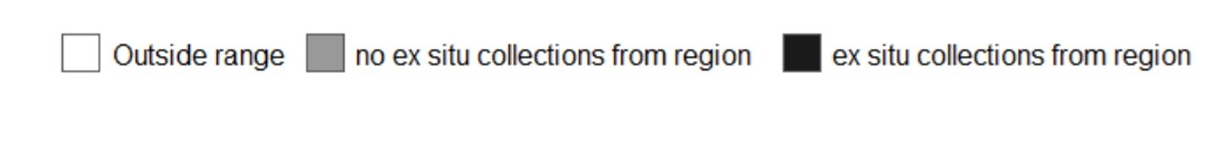
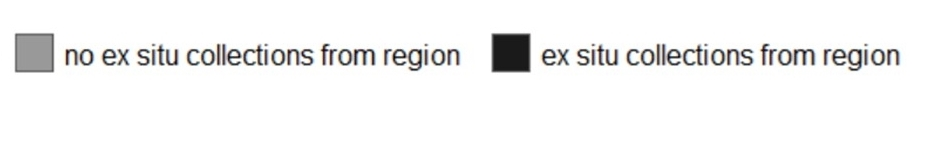
updates to markdown including adding blueberry photo

Changed region(s): [[0.0, 0.2078, 0.9893, 0.4935]]

diff --git a/www/about.md b/www/about.md
@@ -1,22 +1,23 @@
 ### What are CWR and WUS?
-To ensure food security, crop production must adapt to global pressures of change, including a growing global population, pests and diseases, and intensifying frequency and magnitude of extreme weather.
+To ensure food security, crop production must adapt to global pressures of change including a growing global population, pests and diseases, and intensifying frequency and magnitude of extreme weather.
 
-Plants that are close relatives of crops (crop wild relatives or [CWR](https://www.cwrdiversity.org/about/what-are-crop-wild-relatives/)) have the potential to adapt crop production to these challenges. From prehistoric to modern times, plant breeders have used CWR to adapt crop varieties through the introduction of traits linked to crop productivity and nutrition as well as resistance to environmental stress. CWR have been used to introduce such traits to crops of major global importance including tomato, corn, wheat and sunflower. CWR also offer a source of rootstock for woody perennial plants; grafting of wine-grape to rootstock from North American CWR is credited with rescuing the global wine industry [from catostrophic spread of pests ](https://discoverandshare.org/2021/08/31/grafting-the-grape-american-grapevine-rootstock-in-missouri-and-the-world/) 
+Plants that are close relatives of crops (crop wild relatives or [CWR](https://www.cwrdiversity.org/about/what-are-crop-wild-relatives/)) have the potential to adapt crop production to these challenges. [From prehistoric to modern times](https://www.fs.fed.us/wildflowers/ethnobotany/wildrelatives.shtml), plant breeders have used CWR to adapt crop varieties through the introduction of traits linked to crop productivity and nutrition as well as resistance to environmental stress. CWR have been used to introduce such traits to crops of major global importance including tomato, corn, wheat and sunflower. CWR also offer a critical source of rootstock for woody perennial plants. Grafting of wine-grape to rootstock from North American grape CWR is credited with rescuing the global wine industry [from catostrophic spread of pests in the late 1800s](https://discoverandshare.org/2021/08/31/grafting-the-grape-american-grapevine-rootstock-in-missouri-and-the-world/) and today over 80% of vineyards grow grafted grapes.
 
-Wild-utilized plant species (WUS) are plants that are harvested and utilized or consumed directly by humans. WUS often provide critical food security, income sources and may have cultural value, especially in Indigenous food systems and/or in rural communities. Many WUS are especially important as sources of medicine. CWR and WUS definitions are not mutually exclusive; many CWR are wild-harvested and used directly, including many berry fruits native to Canada
+Wild-utilized plant species (WUS) are plants that are harvested and utilized or consumed directly by humans. WUS often provide critical food security, income sources and may have cultural value, especially in [Indigenous food systems](https://www.taylorfrancis.com/books/mono/10.4324/9781003054689/traditional-plant-foods-canadian-indigenous-peoples-harriet-kuhnlein-nancy-turner) and/or in rural communities. Many WUS are especially important as sources of medicine. CWR and WUS definitions are not mutually exclusive; many CWR are wild-harvested and used directly, including many berry fruits native to Canada
 
 ### Why is conservation of CWR and WUS important?
 To ensure the availability of these important genetic resources for crop breeding and for continued sustainable direct use, CWR and WUS require urgent conservation attention. Globally, ~40% of wild plant species including many CWR and WUS are threatened by extinction. Over 90% of studies that have examined genetic diversity of CWR wild-populations have documented and/or predict future [loss of within-species genetic diversity](https://nph.onlinelibrary.wiley.com/doi/10.1111/nph.17733). Extinction of CWR and WUS will encompass the loss of genetic variation that may be invaluable for future crop improvements.
 
+Canadian CWR that are critically imperiled include relatives of walnut, blueberry, quinoa, amaranth, flax, chestnut, currant and gooseberry, lupin, wheat, cup-plant and proso-millet, as well as several forage and feed crops. Imperiled Canadian WUS that require urgent attention include (amongst others) soapweed-yucca, deltoid balsamroot, cherry-birch, red-mulberry and over twenty different hawthorn species, subspecies and varieties (click on the "CWR Conservation" tab and search for these relatives for more information).
 
 ### Towards an Integrative Strategy for Conservation of CWR and WUS in Canada
-To understand the taxonomy and distribution of CWR and WUS in Canada we assembled a national inventory of these plants. 
+To understand the taxonomy and distribution of CWR and WUS in Canada we assembled [a national inventory]() of these plants. 
 
-We next aimed to identify the baseline conservation of these important plants in <i> ex situ </i> (away from home) conservation systems: national north american genebanks as well as in botanical garden collections. <i> Ex situ </i> conservation systems play  in protecting samples of genetic diversity that are distributed among wild populations of CWR and WUS, especially for those CWR and WUS that are vulnerable in their native habitats. <i> Ex situ </i> conservation also facilities distribution of these resources, connecting plant breeders with the traits that are found in wild-populations. Living displays in gardens may also serve to raise broader awareness of the values and threats to CWR and WUS. Geographic range maps for CWR and WUS of interest, including display of wild-populations that are currently protected through <i> ex situ </i> conservation strategies can be found on the "_" tab.
+We next aimed to identify the baseline conservation of these important plants in <i> ex situ </i> (away from home) conservation systems; in national North American genebanks and in the national network of botanical garden collections. These <i> ex situ </i> conservation collections protect samples of the genetic diversity that is distributed among wild populations of CWR and WUS, and this is especially important for conserving the genetic diversity of those CWR and WUS that are particulalry vulnerable in their native habitats. <i> Ex situ </i> conservation also facilities distribution of these resources, connecting plant breeders with the traits and genetic diversity that is found in wild-populations. Living collections of CWR and WUS that are displayed in botanical gardens may also serve to raise broader public awareness of the values and threats to CWR and WUS.
 
-Despite the role of <i> ex situ </i> conservation, complementation focusing on <i> in situ </i> conservation (conservation of wild-populations) is the only way to maintain diverse, healthy populations in the long-run. We encourage users of this web application to note CWR and WUS in their local regions (Click on the "Find Native CWR") that may be a focus for <i> in situ </i> conservation action, including increased protections and population monitoring. Such work should draw on coordination with diverse stakeholders including Indigenous Peoples, farmers and citizen scientists. 
+Despite the role of <i> ex situ </i> conservation, complementation focusing on <i> in situ </i> conservation (conservation of wild-populations) is the only way to maintain diverse, healthy populations in the long-run. We encourage users of this web application to note CWR and WUS in their local regions (Click on the "Find Native CWR") that may be a focus for <i> in situ </i> conservation action, including increased protection and population monitoring. Such work should draw on coordination with diverse stakeholders and knowledgeholders including Indigenous Peoples, farmers and citizen scientists. Range maps for individual taxa (including information on baseline conservation in <i> ex situ </i> collections) can be found on the "CWR Conservation" Tab
 
-Please feel free to share this web tool in efforts to promote broader awareness of CWR and WUS. We hope that the information presented here provides a starting point for advancing integrative conservation of these valuable plants.
+Please feel free to share this web tool in efforts to promote broader awareness of CWR and WUS in Canada. We hope that the information presented here provides a starting point for advancing integrative conservation and sustainable use of these valuable plants.
 
 
 

diff --git a/www/home.md b/www/home.md
@@ -4,18 +4,24 @@
 
 <i> Conservation of Canadian Crop Wild Relatives (CWR) </i> is an app tool that will enable you to explore the diversity of CWR and WUS in Canada. 
 
+Learn more about CWR and WUS on the "What are CWR?" tab. Explore diversity on the "Find Native CWR" and "CWR Conservation" tabs
+
 This tool was designed to accompany a national inventory and conservation assessment of Canada's CWR and WUS diversity, [published here]()
 
-<p align="center">
-  <img width="473" height="630" src="Vaccineum_stamineum.jpg">
+<p align="float">
+  <img width="460" height="630" src="Vaccinium_corymbosum.jpg">
+  <img width="460" height="630" src="Vaccineum_stamineum.jpg">
 </p>
-<i> Image: Imperiled CWR of blueberry, Vaccinium stamineum ("deerberry") </i>
-Photo author: Ted Bodner, Southern Weed Science Society, Bugwood.org; [public domain](https://commons.wikimedia.org/wiki/File:Vaccineum_stamineum_1120600.jpg)
+Image: 
+
+left: Cultivated highbush blueberry, <i> Vaccinium corymbosum </i> [public domain](https://commons.wikimedia.org/wiki/File:Vaccinium_corymbosum(01).jpg)
+
+right: Nationally imperiled CWR of blueberry, <i> Vaccinium stamineum  </i> ("deerberry") [public domain](https://commons.wikimedia.org/wiki/File:Vaccineum_stamineum_1120600.jpg)
 
 You can access our inventory of Canadian CWR and WUS 
 [here](https://github.com/jensculrich/Canadian_CWR_inventory_and_conservation/blob/main/Input_Data_and_Files/inventory.csv).
 
-This app has been made with [shiny](https://shiny.rstudio.com/) and you may
+This app has been made with [RShiny](https://shiny.rstudio.com/) and you may
 find the code on [github](https://github.com/jensculrich/cwr_shiny_app).
 
 

diff --git a/www/explore.md b/www/explore.md
@@ -1,6 +1,6 @@
 ### Explore CWR
 
-This section allows you to explore the conservation status of native and natualized Canadian CWR and WUS in ex situ conservation systems. Begin by selecting a CWR or WUS of interest. The resulting map shows the occurrence range of the selected CWR or WUS in Canada, including regions that are represented (dark grey) by one or more collections from Canadian wild populations that are currently protected in ex situ conservation systems. 
+This section allows you to explore the conservation status of native and naturalized Canadian CWR and WUS in <i> ex situ </i> conservation systems. Begin by selecting a CWR or WUS of interest. The resulting map shows the occurrence range of the selected CWR or WUS in Canada, including regions that are represented (dark grey) by one or more collections from Canadian wild populations that are currently protected in ex situ conservation systems. Circle points indicate the geographic origin of CWR and WUS accessions that were collected from wild-populations in Canada and currently held in botanical gardens (BG - yellow) or national genebanks (G - magenta).
 
 Ex situ collections considered here are a meta-collection assembled from national genebanks (G) (Plant Genetic Resources Canada, National Tree Seed Centre - Canada, University of Saskatchewan Prairie Fruit Genebank - Canada, and the United States Dept. of Agriculture Nationa Germplasm System - United States) as well as from 7 major Canadian botanical gardens (BG).
 

diff --git a/www/find.md b/www/find.md
@@ -1,3 +1,3 @@
 ### Find native CWR
 
-In this section you can identify native and naturalized CWR and WUS in Canadian ecoregions. 
+In this section you can identify native and naturalized CWR and WUS in Canadian. Clicking on an ecoregion will generate a list of locally occurring CWR and WUS plants. Note especially the conservation threat assessments: Conservation status in Canada ranges between Secure (N5), Apparently Secure (N4), Vulnerable (N3), Imperiled (N2) and Critically Imperilled (N1); [COSEWIC Assessments](https://www.cosewic.ca/index.php/en-ca/) are rated from moderate concern (Special Concern (SC) / Préoccupante (P)) to highest concern (Threatened (T) / Mecée (M); and Endangered (E) / En voie de disparition (VD)). Note, taxa without a COSEWIC status may still be vulnerable but have not yet received a national assessment.

diff --git a/www/aknow.md b/www/aknow.md
@@ -1,6 +1,6 @@
 # Aknowledgments
 
-## CWR collection data was contributed by: 
+## CWR and WUS collection data was contributed by: 
 7 botanical gardens from across Canada - Montreal Botanic Garden (Montreal, QC), the University of Guelph Arboretum (Guelph, ON), the Royal Botanical Gardens (Burlington, ON), Mount Pleasant Cemetery Gardens (Toronto, ON), University of British Columbia Botanical Garden (Vancouver, BC), VanDusen Botanical Garden (Vancouver, BC), Reader Rock Garden (Calgary, AB).
 
 Collections data from genebanks was gathered directly through publicly available databases: 

diff --git a/www/conservation_tab.md b/www/conservation_tab.md
@@ -1,4 +1,4 @@
 <p align="left">
-  <img src="gap_analysis_legend.jpg", height="50%", width="50%">
+  <img src="legend_shiny.jpg", height="50%", width="50%">
 </p>
 
